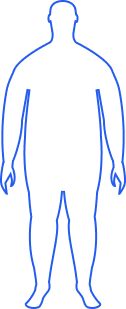
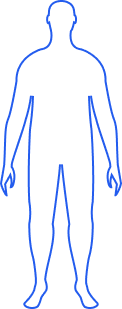
done with fixes

Changed region(s): [[0.5164, 0.0, 1.0, 1.0], [0.0, 0.0, 0.4672, 0.9612], [0.1721, 0.5243, 0.7131, 1.0]]

diff --git a/pages/services/doctors/[id]/index.vue b/pages/services/doctors/[id]/index.vue
@@ -32,12 +32,8 @@ const notify = (type, text) => {
 
 const form = ref({
   user_id: null,
-  date: {
-    day: "",
-    start: "",
-    end: ""
-  },
-  staff_id: 37,
+  time_id: null,
+  staff_id: null,
   service_id: null,
   price: null,
   address_id: null
@@ -45,11 +41,7 @@ const form = ref({
 
 const v$ = useVuelidate({
   user_id: {required},
-  date: {
-    day: {required},
-    start: {required},
-    end: {required}
-  },
+  time_id: {required},
   staff_id: {required},
   service_id: {required},
   price: {required},
@@ -59,11 +51,6 @@ const v$ = useVuelidate({
 const changeService = (val) => {
   form.value.service_id = val.service_id
   form.value.price = val.price
-}
-
-const setTime = (e) => {
-  form.value.date.start = e.start
-  form.value.date.end = e.end
 }
 
 const links = ref([
@@ -117,16 +104,15 @@ const setPickDay = (day) => {
 onMounted(async () => {
   await nextTick()
   await staff.getStaffDetail(route.params.id)
+  await addresses.listAddresses()
+  form.value.staff_id = resultDetail.value.id
+  form.value.user_id = user.result.data.id
   links.value.push({
     title: resultDetail.value.user.name,
     link: '/services/doctors/' + resultDetail.value.id
   })
   form.value.price = resultDetail.value.services[0].price
   form.value.service_id = resultDetail.value.services[0].service_id
-  if (user.result) {
-    await addresses.listAddresses()
-    form.value.user_id = user.result.data.id
-  }
   resultDetail.value.documents.forEach((item) => {
     if (item.type === 'diploma') {
       diplomas.value.push(item)
@@ -329,8 +315,8 @@ watch(() => user.result, () => {
                 </label>
               </div>
             </div>
-            <div class="block lg:flex justify-between gap-4 mb-4">
-              <div class="w-full lg:w-3/5 mb-3 lg:mb-0">
+            <div class="block mb-4">
+              <div class="w-full mb-3">
                 <p class="text-sm lg:text-base mb-1">
                   Дни приема:
                 </p>
@@ -339,7 +325,7 @@ watch(() => user.result, () => {
                       @click="setPickDay(it)"
                       v-for="(it, ind) of resultDetail.schedule"
                       :key="ind"
-                      :class="[{ 'bg-mainColor text-white' : pickedDay.id === it.id }, {'border-red-500': v$.date.day.$error}]"
+                      :class="[{ 'bg-mainColor text-white' : pickedDay.id === it.id }]"
                       class="cursor-pointer py-1 px-3 border w-max rounded text-sm lg:text-base text-center leading-none">
                     <p class="text-xs">
                       {{ it.weekday }}
@@ -355,21 +341,21 @@ watch(() => user.result, () => {
                   </div>
                 </div>
               </div>
-              <div class="w-full lg:w-2/5">
+              <div class="w-full">
                 <p class="mb-1">
                   Время
                 </p>
                 <select
-                    :disabled="pickedTime.length <= 0"
+                    :disabled="!pickedDay"
+                    v-model="form.time_id"
+                    :class="{'border-red-500': v$.time_id.$error || v$.time_id.$error}"
                     class="px-3 py-3 border rounded-lg w-full">
                   <option :value="null">
                     Выберите время
                   </option>
                   <option
-                      @click="setTime(it)"
-                      v-for="(it, ind) of pickedTime"
+                      v-for="(it, ind) of pickedDay.times"
                       :key="ind"
-                      :class="{'border-red-500': v$.date.start.$error || v$.date.end.$error}"
                       :value="it.id">
                     {{ it.start }} - {{ it.end }}
                   </option>

diff --git a/pages/cart/index.vue b/pages/cart/index.vue
@@ -8,7 +8,7 @@ const cart = useCartStore();
 
 const auth = useAuthStore();
 auth.initCookieToken()
-const { token } = storeToRefs(auth);
+const {token} = storeToRefs(auth);
 
 const loading = ref(false);
 
@@ -49,7 +49,7 @@ const notify = (type, text) => {
 };
 
 onMounted(async () => {
-  if(!token.value) {
+  if (!token.value) {
     router.push('/')
     notify(false, 'Вы не авторизованы')
   }
@@ -120,7 +120,7 @@ useHead({
             <div v-if="cart.result.count > 0">
               <div
                   v-if="cart.result.doctor_order.length > 0"
-                  :class="{ 'mb-10 border-b border-[#E7F0FF] pb-5' : cart.result.nurse_order.length > 0 }">
+                  class="mb-10 border-b border-[#E7F0FF] pb-5">
                 <h2 class="text-mainColor font-semibold text-xl mb-5">
                   Врачи
                 </h2>
@@ -214,7 +214,10 @@ useHead({
                   </div>
                 </div>
               </div>
-              <div v-if="cart.result.nurse_order.length > 0">
+              <div
+                  v-if="cart.result.nurse_order.length > 0"
+                  class="mb-10 border-b border-[#E7F0FF] pb-5"
+              >
                 <h2 class="text-mainColor font-semibold text-xl mb-5">
                   Мед-услуги
                 </h2>
@@ -305,7 +308,10 @@ useHead({
                   </div>
                 </div>
               </div>
-              <div v-if="cart.result.analyze_order.length > 0">
+              <div
+                  v-if="cart.result.analyze_order.length > 0"
+                  class="mb-10 border-b border-[#E7F0FF] pb-5"
+              >
                 <h2 class="text-mainColor font-semibold text-xl mb-5">
                   Анализы
                 </h2>

diff --git a/layouts/profile.vue b/layouts/profile.vue
@@ -307,22 +307,22 @@ onMounted(async () => {
               <img
                   v-else-if="doneIMT && doneIMT > 18.5 && doneIMT < 24.9"
                   class="lg:w-1/2 w-full h-[300px] object-contain mb-5 lg:mb-0"
-                  src="@/assets/img/bodies/1.png"
+                  src="@/assets/img/bodies/2.png"
                   alt="">
               <img
                   v-else-if="doneIMT && doneIMT > 24.9 && doneIMT < 29.9"
                   class="lg:w-1/2 w-full h-[300px] object-contain mb-5 lg:mb-0"
-                  src="@/assets/img/bodies/1.png"
+                  src="@/assets/img/bodies/3.png"
                   alt="">
               <img
                   v-else-if="doneIMT && doneIMT > 29.9 && doneIMT < 34.9"
                   class="lg:w-1/2 w-full h-[300px] object-contain mb-5 lg:mb-0"
-                  src="@/assets/img/bodies/1.png"
+                  src="@/assets/img/bodies/4.png"
                   alt="">
               <img
                   v-else-if="doneIMT && doneIMT > 34.9"
                   class="lg:w-1/2 w-full h-[300px] object-contain mb-5 lg:mb-0"
-                  src="@/assets/img/bodies/1.png"
+                  src="@/assets/img/bodies/5.png"
                   alt="">
               <div class="lg:w-1/2 w-full flex flex-col justify-between gap-3">
                 <div
